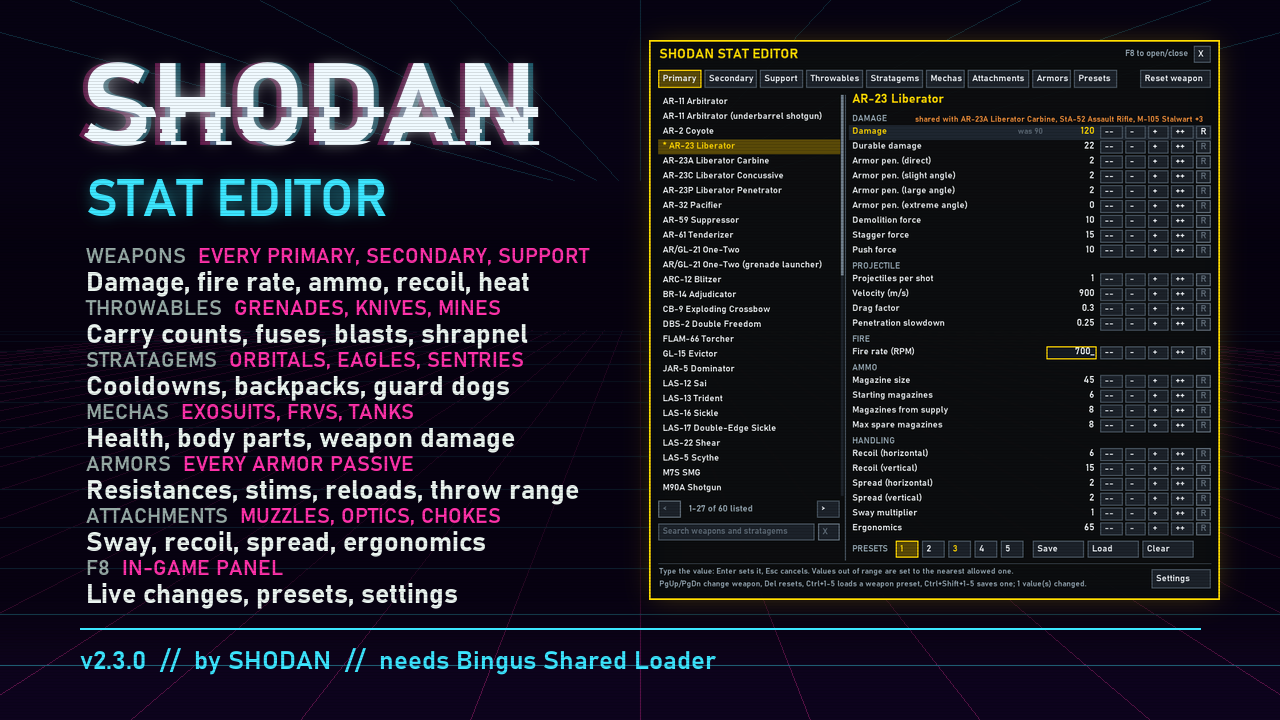
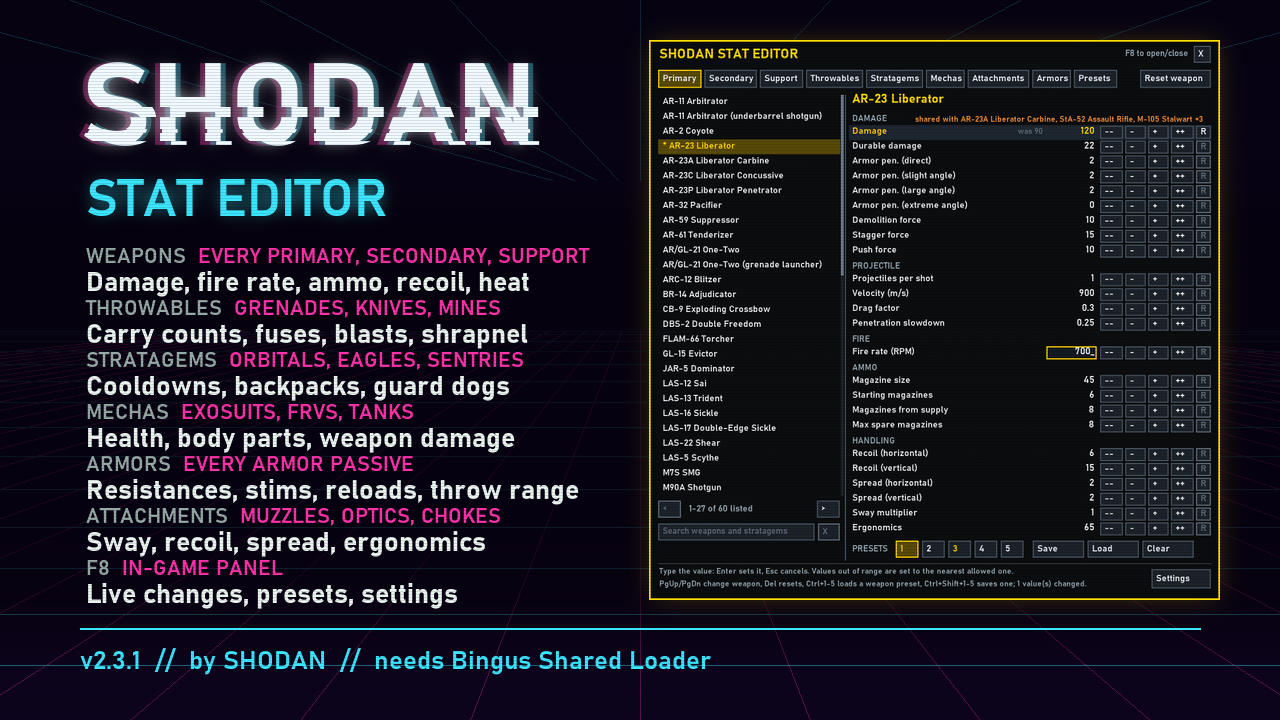
README and feature image: v2.3.1 (barrages, Eagles)

Changed region(s): [[0.0938, 0.8861, 0.5625, 0.9472]]

diff --git a/README.md b/README.md
@@ -53,8 +53,9 @@ recharge is its "cool-down time after overheat".
 | Stratagem | Stats |
 |---|---|
 | All | Cooldown, and uses where limited |
-| Eagles | Uses per rearm, Eagle rearm time |
+| Eagles | Uses per rearm, Eagle rearm time; time between bombs (bombers), fire duration (Strafing Run, 110mm Rocket Pods), run length |
 | Orbital and Eagle strikes | For every projectile and blast they use: velocity, inner / outer / shockwave radius, and the full damage set above |
+| Orbital barrages and strikes | Salvos, shells per salvo, time between shells, time between salvos, spread area; the Walking Barrage's walking speed |
 | Orbital Laser | Duration, tracking speed, search radius, damage tick |
 | Guard Dogs (AR-23, Rover, Dog Breath, Hot Dog, K-9) | The drone's health, spotting range and target search interval, and the gun it carries, stat for stat like a weapon |
 | Sentries and emplacements (all ten sentries, HMG and Anti-Tank Emplacements, Grenadier Battlement) | Cooldown, health, spotting range, target search interval, turret turn speed, and their weapon stat for stat (the Tesla Tower's arc included) |
@@ -101,7 +102,7 @@ Multipliers show as the game stores them: 1 is no change, 0.5 damage taken is 50
 ## Install
 
 1. Install **Bingus Shared Loader** (v15 or newer).
-2. Download `SHODAN-Stat-Editor-v2.3.0.zip` from the [releases page](../../releases/latest).
+2. Download `SHODAN-Stat-Editor-v2.3.1.zip` from the [releases page](../../releases/latest).
 3. Install the zip with your Helldivers 2 mod manager, like any other mod package.
 
 ## Use
